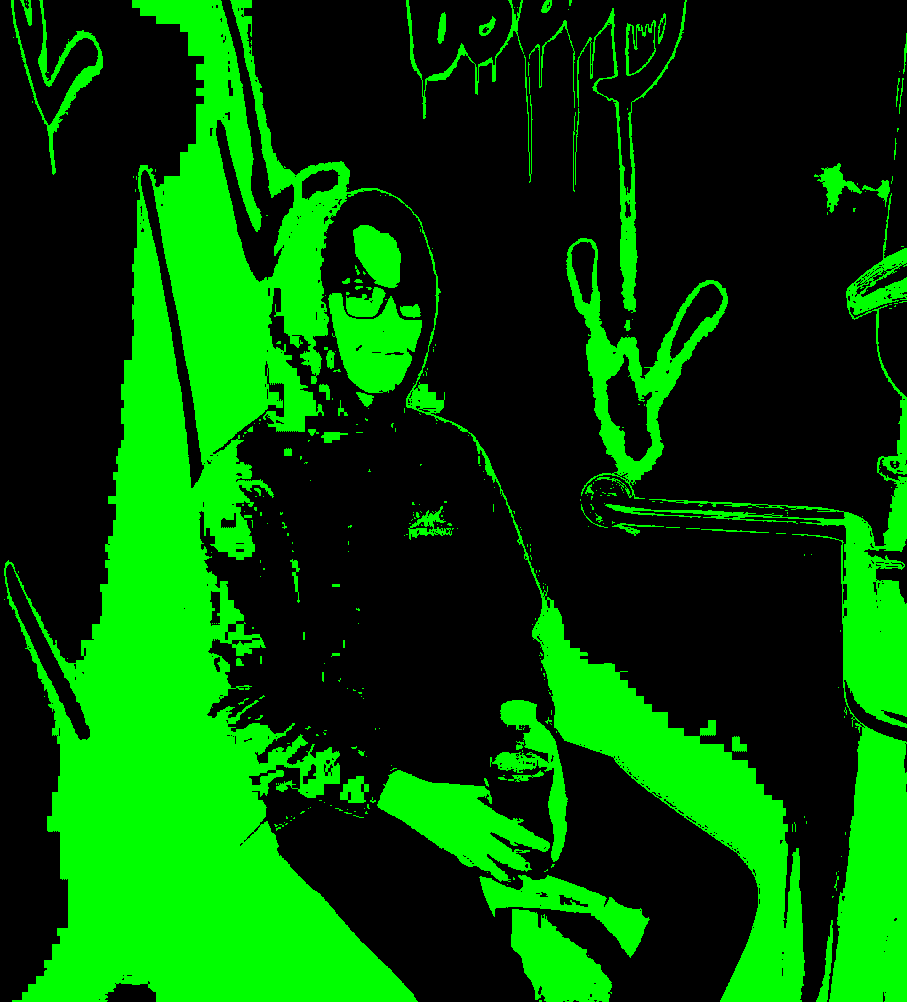
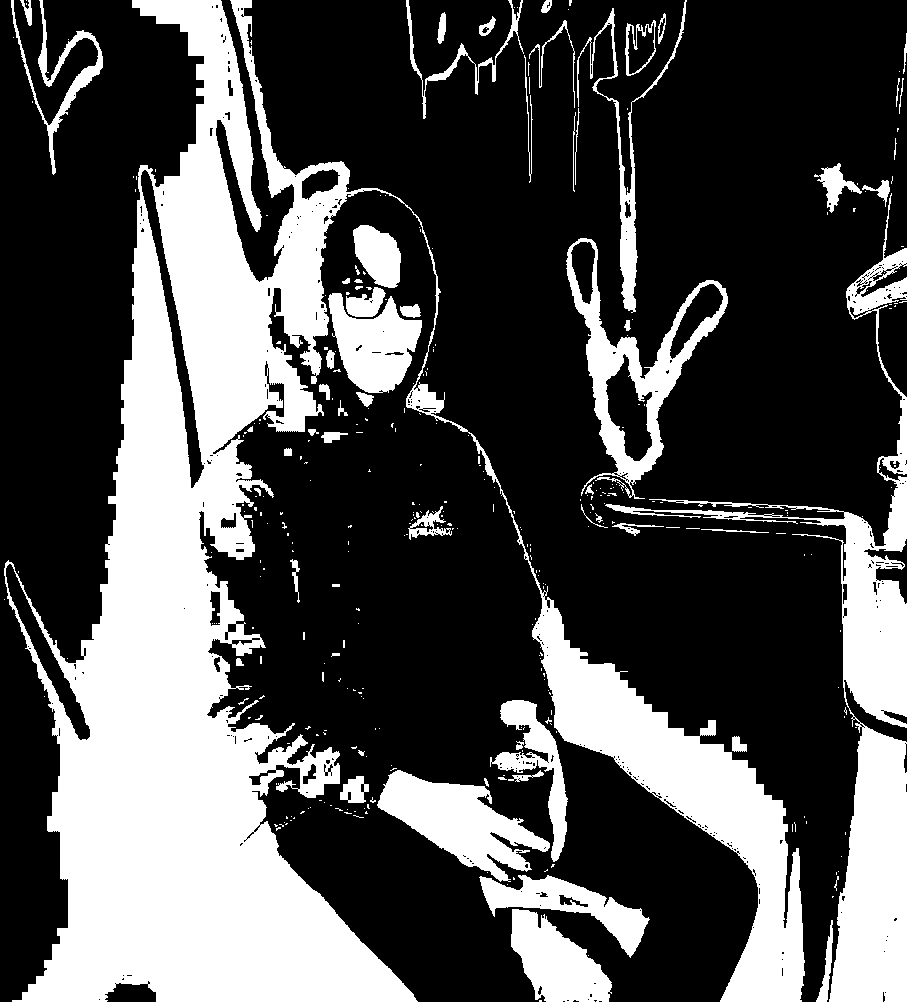
website update

diff --git a/docs/photo_new.html b/docs/photo_new.html
@@ -6,7 +6,7 @@
 	</head>
 	<body>
 		<section class="home-main">
-			<img src="images/smiley.png" class="logo2">
+			<img src="images/smiley.png" class="logo2" alt="logo">
 			<nav>
 				<i>
 					<a href="about.html">ABOUT</a>
@@ -15,11 +15,13 @@
 			</nav>
 			<div class="content">
 			<h1 class="header"> PHOTO 220: PROJECT 1 </h1>
-				<p><img src="images/photos/IMG_9948.JPG" class="portrait"/> &nbsp;&nbsp;&nbsp;This past month has been quite a journey for me, spiritually and mentally. In fact, this past week felt like the dawn of a new beginning. I have learned new aspects of my reality; how I perceive my relations, the desire for connection, and patience.  With summer coming to an end, a season of my life is ending. </p><br/><br/><br/><br/><br/>
-				<p><img src="images/photos/IMG_9924.JPG" class="portrait2"/>&nbsp;&nbsp;&nbsp;More often than not, people show up in my life, then disappear without any satisfying or pleasant conclusion. From these situations, I learn something, whether it’s about myself or others around me. I will forever be thankful to the souls who were a part of my life, despite how much hurt they made me go through. Unconditional support is such a powerful feeling. It is one of the realest emotions a human could feel I think, but rarely is it reciprocal. </p><br/><br/><br/><br/><br/>
-				<p><img src="images/photos/IMG_9929.JPG" class="portrait"/>&nbsp;&nbsp;&nbsp;It is difficult not to indulge in the emotions that drag you down. In some way, the motions of depression and anxiety provide a sense of toxic security. The subliminal sense of “If nothing in life existed, everything would be better.” This is called <i>"l’appel du vide"</i>, or <i>“the call of the void.”</i> It can appear in a variety of different ways; the impulse to drop life, the obsession over what could’ve been instead of accepting what is, to lose faith in the physical world, etc... </p><br/><br/><br/><br/>
-				<p><img src="images/photos/IMG_9938.JPG" class="portrait2"/>&nbsp;&nbsp;&nbsp;Often times these intrusive thoughts will lead to negative thought patterns that cause you to hurt yourself more than to heal. But then you realize the futility of the void. That in the end of it all, it is the final destination for all things physical. Then, once you realize the nature of physical reality, the love and appreciation for it becomes even greater. This appreciation gets to the point where not only is your physical reality heightened, but your subjective reality as well. </p><br/><br/><br/><br/>
-			    <p><img src="images/photos/IMG_9936.JPG" class="portrait"/>&nbsp;&nbsp;&nbsp;Life is never perfect, but that is its objective reality. Life was never meant to be perfect, outside of our subjective experiences. Even through life’s struggles, there is this underlying beauty that, no matter what, everything will be okay. </p>
+				<p><img src="images/photos/IMG_9948.JPG" class="portrait" alt="pic1"/> &nbsp;&nbsp;&nbsp;This past month has been quite a journey for me, spiritually and mentally. In fact, this past week felt like the dawn of a new beginning. I have learned new aspects of my reality; how I perceive my relations, the desire for connection, and patience.  With summer coming to an end, a season of my life is ending. </p><br/><br/><br/><br/><br/>
+				<p><img src="images/photos/IMG_9924.JPG" class="portrait2" alt="pic2"/>&nbsp;&nbsp;&nbsp;More often than not, people show up in my life, then disappear without any satisfying or pleasant conclusion. From these situations, I learn something, whether it’s about myself or others around me. I will forever be thankful to the souls who were a part of my life, despite how much hurt they made me go through. Unconditional support is such a powerful feeling. It is one of the realest emotions a human could feel I think, but rarely is it reciprocal. </p><br/><br/><br/><br/><br/>
+				<p><img src="images/photos/IMG_9929.JPG" class="portrait" alt="pic3"/>&nbsp;&nbsp;&nbsp;It is difficult not to indulge in the emotions that drag you down. In some way, the motions of depression and anxiety provide a sense of toxic security. The subliminal sense of “If nothing in life existed, everything would be better.” This is called <i>"l’appel du vide"</i>, or <i>“the call of the void.”</i> It can appear in a variety of different ways; the impulse to drop life, the obsession over what could’ve been instead of accepting what is, to lose faith in the physical world, etc... </p><br/><br/><br/><br/>
+				<p><img src="images/photos/IMG_9938.JPG" class="portrait2" alt="pic4"/>&nbsp;&nbsp;&nbsp;Often times these intrusive thoughts will lead to negative thought patterns that cause you to hurt yourself more than to heal. But then you realize the futility of the void. That in the end of it all, it is the final destination for all things physical. Then, once you realize the nature of physical reality, the love and appreciation for it becomes even greater. This appreciation gets to the point where not only is your physical reality heightened, but your subjective reality as well. </p><br/><br/><br/><br/>
+				<p><img src="images/photos/IMG_9936.JPG" class="portrait" alt="pic5"/>&nbsp;&nbsp;&nbsp;Life is never perfect, but that is its objective reality. Life was never meant to be perfect, outside of our subjective experiences. Even through life’s struggles, there is this underlying beauty that, no matter what, everything will be okay. </p><br/><br/><br/><br/><br/>
+				<p><iframe width="453" height="805" src="https://www.youtube.com/embed/DLqK4rEEu9s" class="portrait2"></iframe>&nbsp;&nbsp;&nbsp;In life's twists and turns, practicing mindfulness acts like a guide, helping us explore ourselves and grow. Being present in the moment becomes crucial, teaching us that things are always changing. Letting go of people who aren't positive for us is a way of showing ourselves love and freedom. Relationships can be like leaves falling off a tree – not all of them last forever. Saying goodbye to those who were once important is tough, but it's also a chance for new beginnings. Mindfulness reminds us that change is natural, and it gives us the strength to let go gracefully. To sum it up, blending mindfulness, letting go, and understanding that things don't last forever is like a journey of self-discovery. It helps us deal with life's ups and downs, finding beauty in every breath, every meeting, and every step we take on our ever-changing path. </p>
+				
 			</div>
 		</section>
 	</body>

diff --git a/docs/style.css b/docs/style.css
@@ -27,8 +27,8 @@ section.home-main{
 }
 
 div.content{
-	border-top: 2px solid #00FF00;
-	border-bottom: 2px solid #00FF00;
+	border-top: 2px solid #FFFFFF;
+	border-bottom: 2px solid #FFFFFF;
 	height: 80vh;
 	overflow-y: scroll;
 	text-align: left;
@@ -94,12 +94,12 @@ li{
 	}
 	to {
 		opacity: 1.0;
-		color: #00FF00;
+		color: #FFFFFF;
 	}
 }
 
 a{
-	color: #00FF00;
+	color: #FFFFFF;
 	text-decoration: none;
 }
 a:hover{
@@ -108,7 +108,7 @@ a:hover{
 
 nav{
 	word-spacing: 35px;
-	color: #00FF00;
+	color: #FFFFFF;
 	padding-top: 5em;
 	font-size: 1.5em;
 }
@@ -123,16 +123,18 @@ div.flex-container{
 }
 
 div.contacts{
-    width: 50%
+    width: 50%;
+    font-family: Monospace;
+    font-size: 21px;
 }
 
 img.portrait{
-	border: 2px solid #00FF00;
+	border: 2px solid #FFFFFF;
 	float: right;
 	width: 35%
 }
 img.portrait2{
-	border: 2px solid #00FF00;
+	border: 2px solid #FFFFFF;
 	float: left;
 	width: 35%
 }
@@ -142,5 +144,5 @@ img.portrait2{
   height: 2px;
 }
 ::-webkit-scrollbar-thumb {
-  background: #00FF00;
+  background: #FFFFFF;
 }

diff --git a/docs/about.html b/docs/about.html
@@ -3,7 +3,6 @@
 	<head>
 		<title> EVILWIZARD.WORLD </title>
 		<link rel="stylesheet" href="style.css">
-		<link rel="stylesheet" href="scanlines.css">
 	</head>
 	<body>
 		<section class="home-main">
@@ -38,7 +37,7 @@
 						beginning of time. Some notable projects include:
 						<ul>
 							<li><a href="tei_odd_01/TEI-Behrend-nlh5383.html">DIGIT 110 - TEI ODD</a></li>
-							<li><a href="photo.html">PHOTO 202 - PROJECT 1</a></li>
+							<li><a href="photo_new.html">PHOTO 202 - PROJECT 1</a></li>
 							<li><a href="https://nhammer514.github.io/textfiles-politics/index.html">DIGIT 210 - TEXTFILES POLITICS</a></li>
 							<li><a href="https://frankensteinvariorum.org/">FRANKENSTEIN VARIORUM</a></li>
 						</ul>

diff --git a/docs/resume.html b/docs/resume.html
@@ -3,7 +3,6 @@
 	<head>
 	<title> EVILWIZARD.WORLD </title>
 	<link rel="stylesheet" href="style.css">
-	<link rel="stylesheet" href="scanlines.css"> 
 	</head>
 	<body>
 		<section class="home-main">

diff --git a/docs/index.html b/docs/index.html
@@ -3,7 +3,6 @@
 	<head>
 	<title> WELCOME TO </title>
 	<link rel="stylesheet" href="style.css">
-	<link rel="stylesheet" href="scanlines.css"> 
 	</head>
 	<body>
 		<section class="main">
